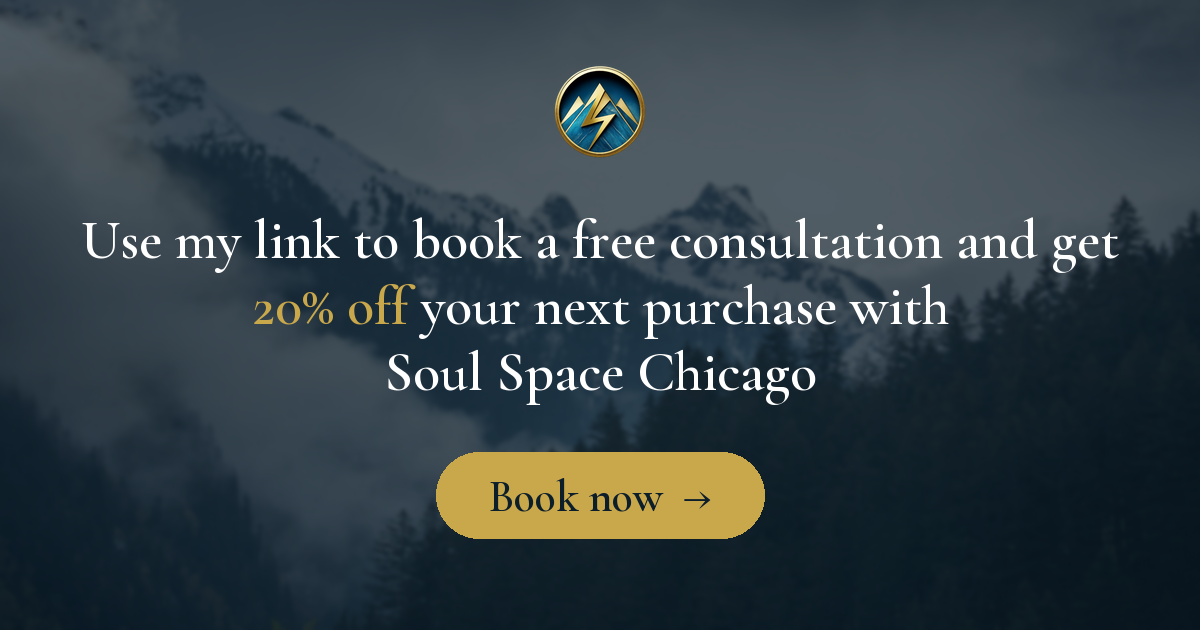
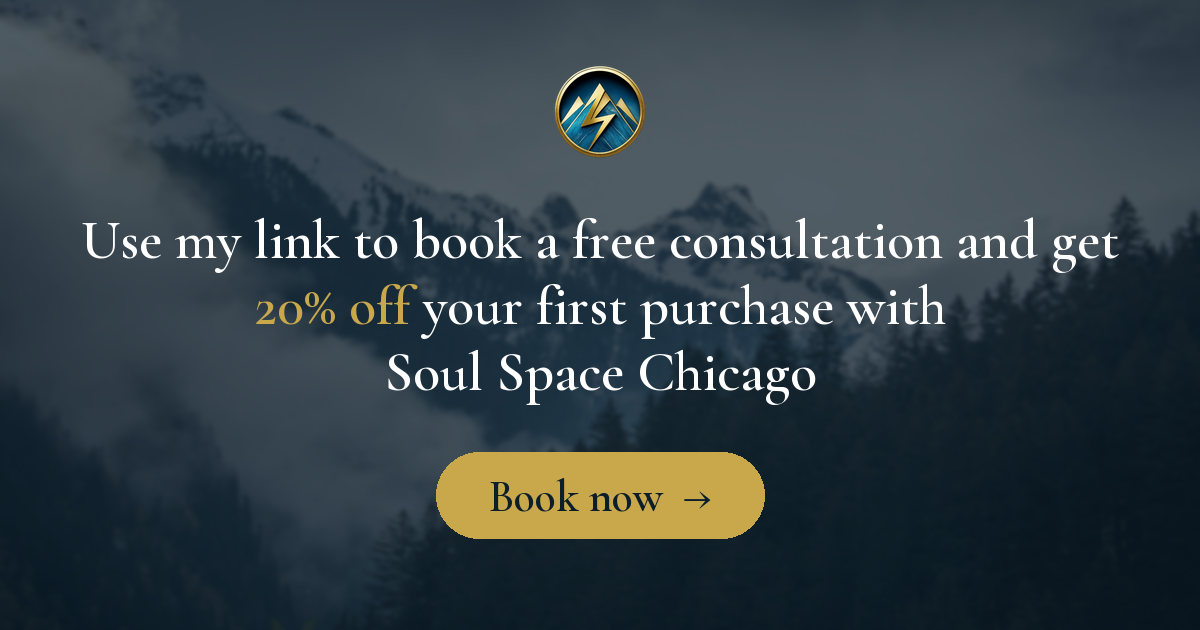
Updating referral reward copy
Referees get 20% off their first purchase, referrers 20% off their next.
Reorder and vertically center the perks on /refer; regenerate preview cards.

Changed region(s): [[0.2158, 0.4524, 0.8017, 0.5429]]

diff --git a/src/views/Refer.vue b/src/views/Refer.vue
@@ -12,12 +12,12 @@
 
           <ul class="perks">
             <li>
-              <i class="pi pi-gift" />
-              <span><strong>You get 20% off a purchase</strong> for every friend who makes a purchase through your link.</span>
+              <i class="pi pi-heart" />
+              <span><strong>Anyone you refer gets 20% off</strong> their first purchase with Dr. Bex.</span>
             </li>
             <li>
-              <i class="pi pi-heart" />
-              <span><strong>Your friends get a free consultation</strong> and 20% off their next purchase.</span>
+              <i class="pi pi-gift" />
+              <span><strong>You get 20% off your next purchase</strong> for every referral who becomes a client.</span>
             </li>
           </ul>
 
@@ -53,8 +53,8 @@
 
         <template v-else>
           <p class="refer-desc">
-            Thanks, {{ firstName.trim() }}! Here's your personal link. Share it with friends: for
-            every friend who makes a purchase through it, you'll get 20% off a purchase.
+            Thanks, {{ firstName.trim() }}! Here's your personal link. Share it with friends: you'll
+            get 20% off your next purchase for every referral who becomes a client.
           </p>
 
           <div class="link-box">
@@ -204,7 +204,7 @@ async function share() {
 
 .perks li {
   display: flex;
-  align-items: baseline;
+  align-items: center;
   gap: 0.75rem;
   font-size: 0.95rem;
   line-height: 1.6;

diff --git a/netlify/edge-functions/link-preview.ts b/netlify/edge-functions/link-preview.ts
@@ -62,7 +62,7 @@ export function previewTags(url: URL, referrer: string | null = null): string {
     ? referrer ? `${referrer} has invited you to ${site.name}` : `You're invited to ${site.name}`
     : site.name
   const description = isReferral
-    ? `Use my link to book a free consultation and get 20% off your next purchase with ${site.name}.`
+    ? `Use my link to book a free consultation and get 20% off your first purchase with ${site.name}.`
     : site.description
 
   const tags: [string, string, string][] = [
@@ -79,7 +79,7 @@ export function previewTags(url: URL, referrer: string | null = null): string {
       ['property', 'og:image', image],
       ['property', 'og:image:width', '1200'],
       ['property', 'og:image:height', '630'],
-      ['property', 'og:image:alt', `Book a free consultation and get 20% off your next purchase with ${site.name}. Book now.`],
+      ['property', 'og:image:alt', `Book a free consultation and get 20% off your first purchase with ${site.name}. Book now.`],
       ['name', 'twitter:card', 'summary_large_image'],
       ['name', 'twitter:image', image],
     )
